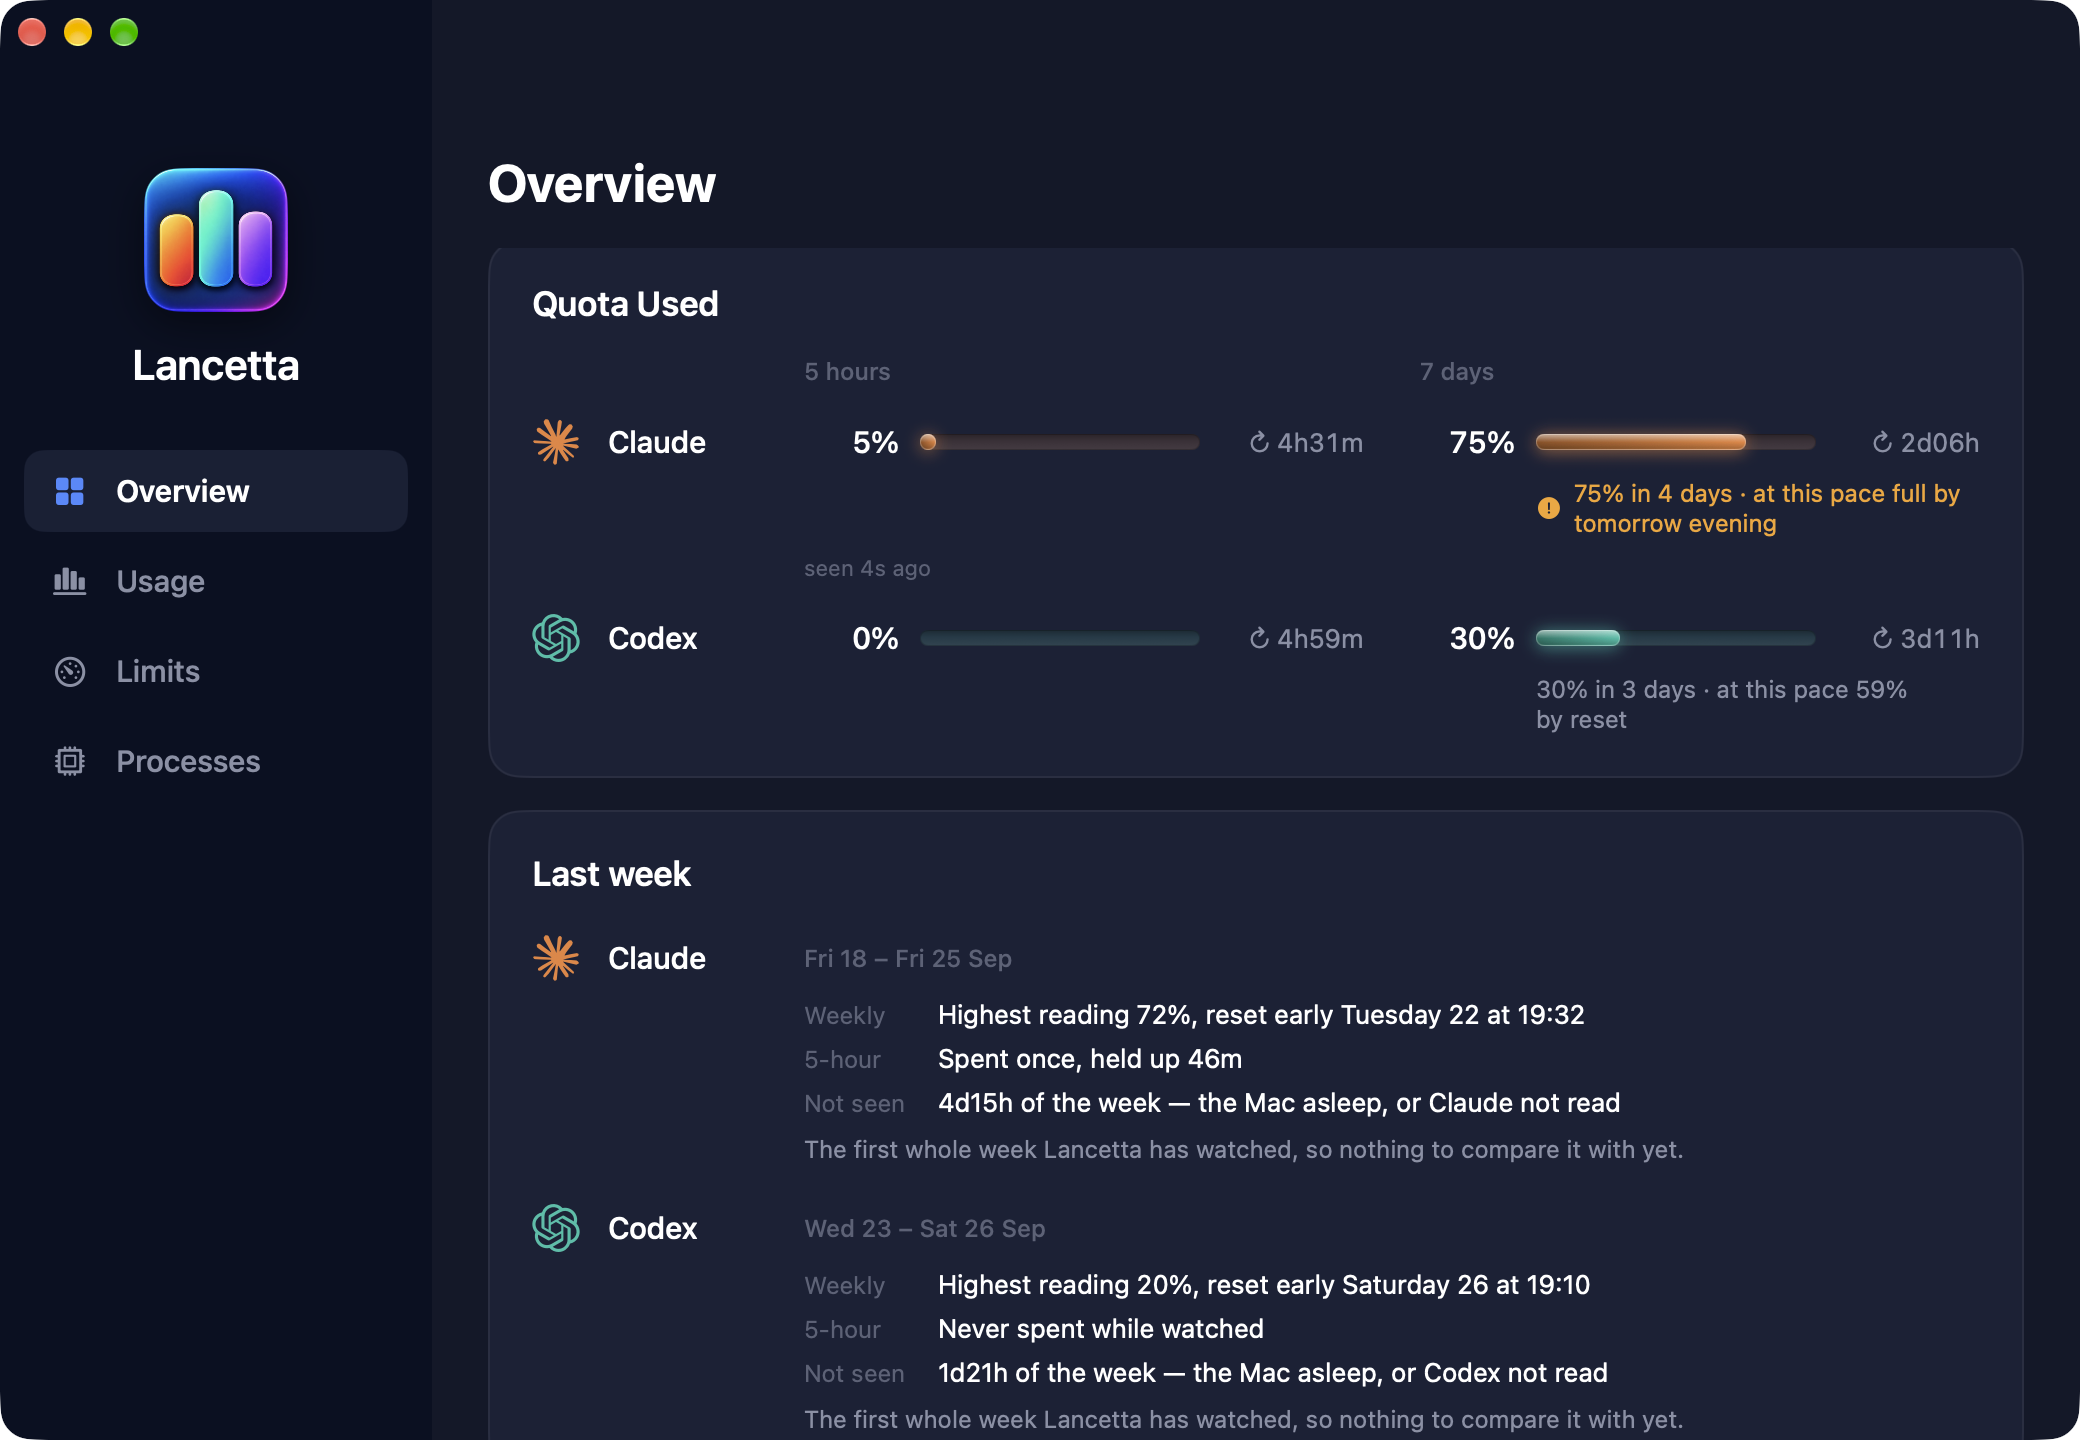
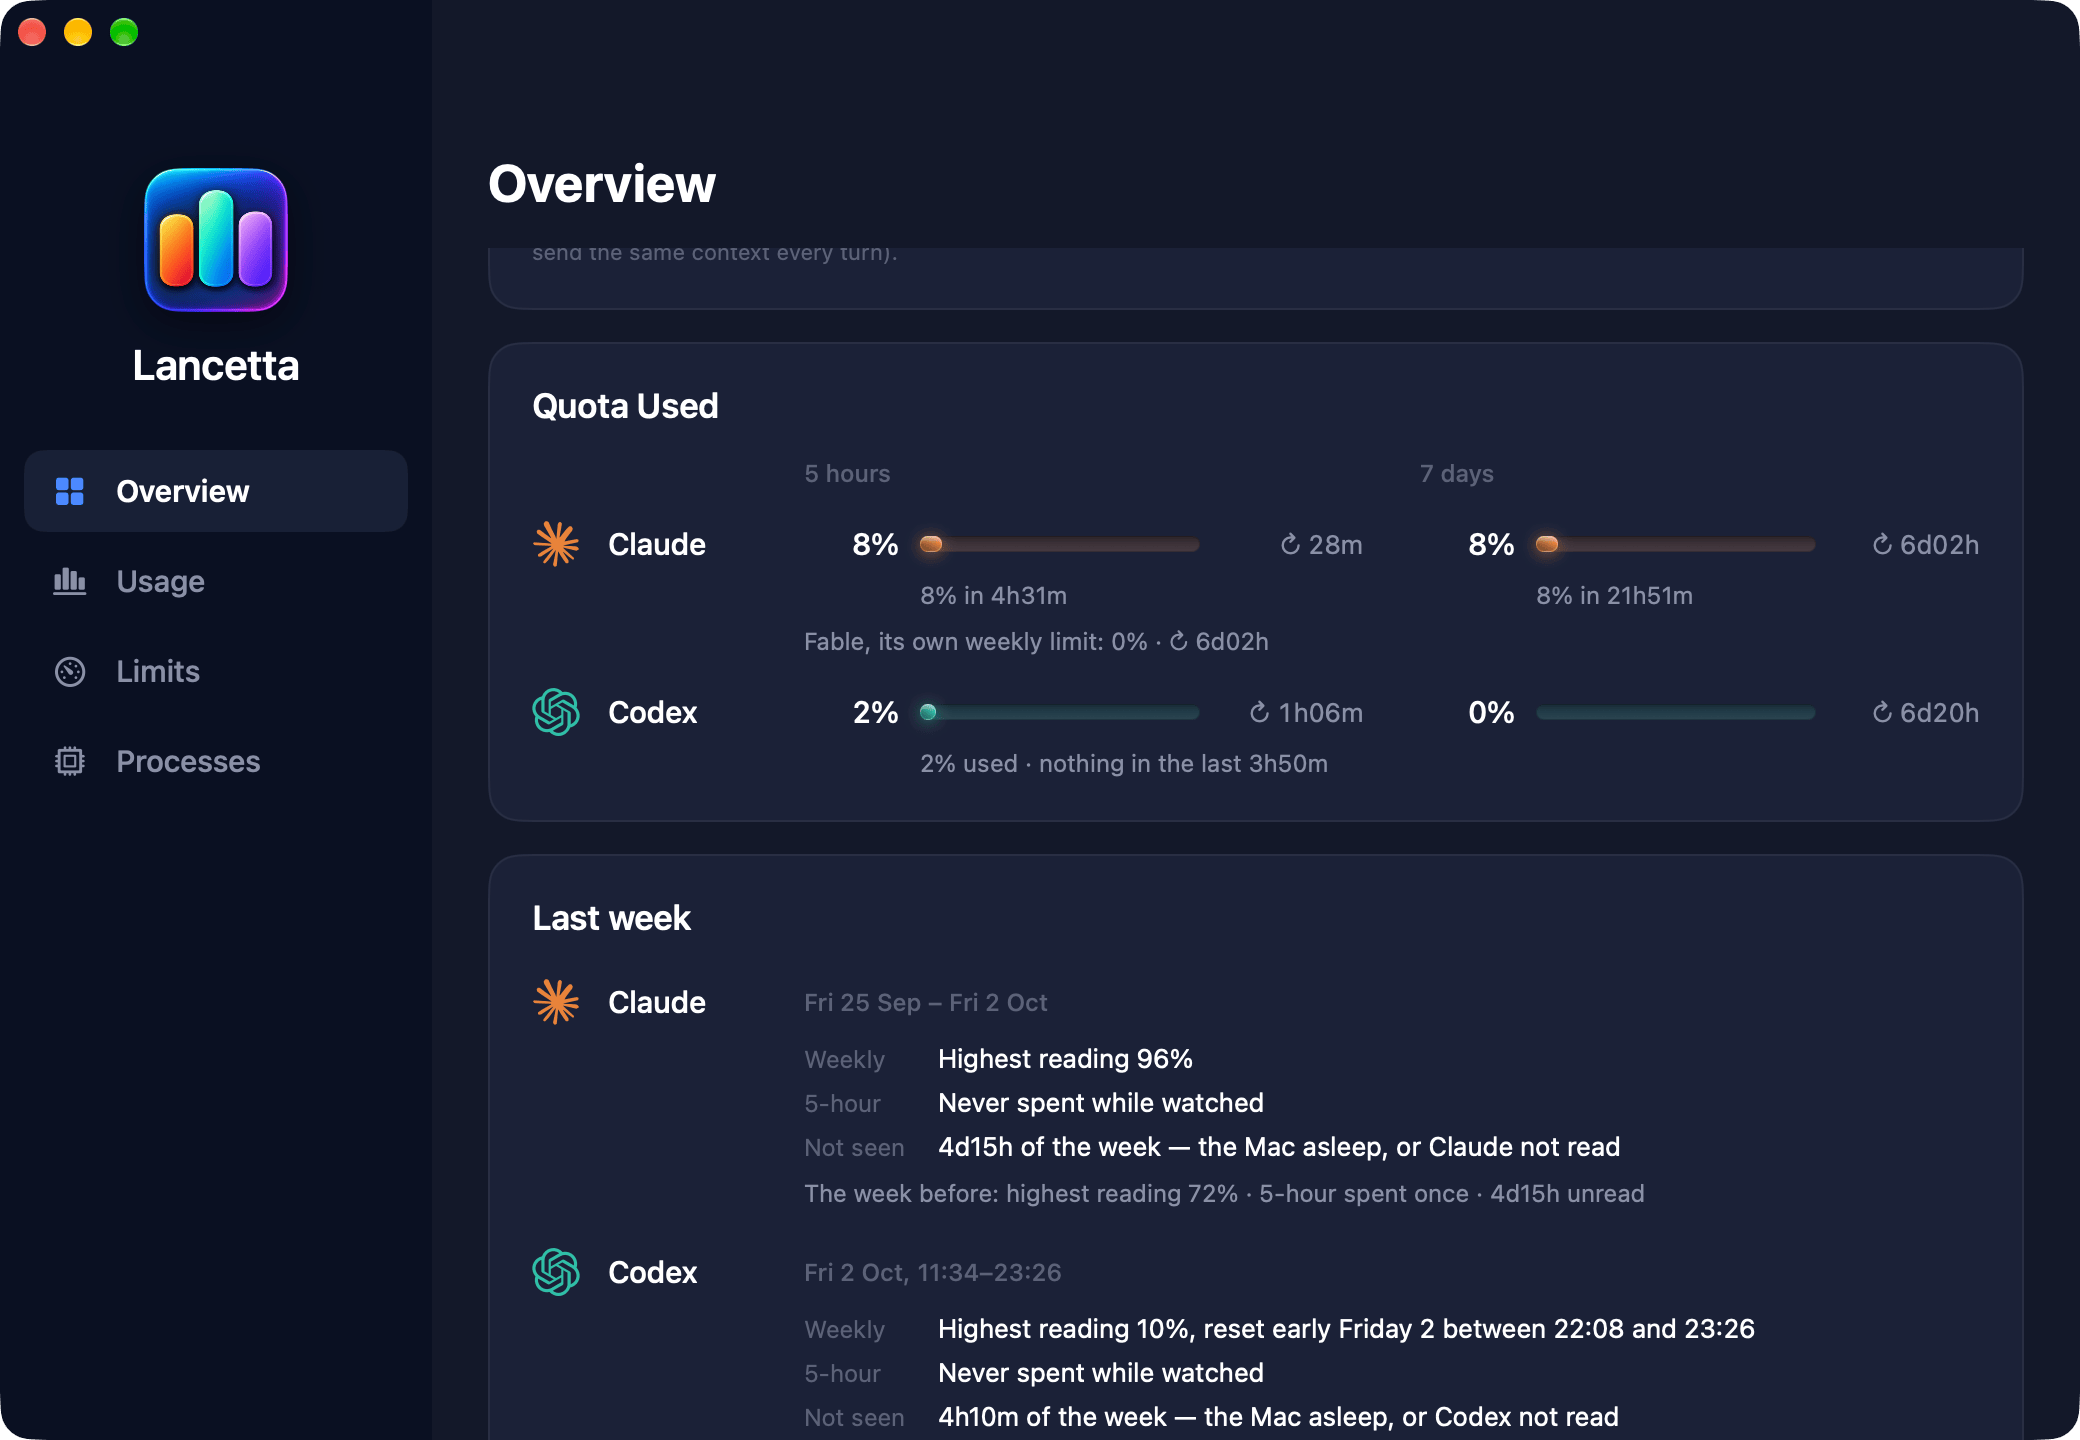
docs: re-shoot the panel and window set from 0.15.1
0.15.0 rewrote the pace line, and every frame that quoted it still said
"at this pace 29% by reset": the panel, the Claude card cut out of it for
the hero, and the window's Overview, Limits and Last week. The window set
is one set at one size, so all five panes were shot again in one run.

They come from the installed 0.15.1 on the account route, so Claude's card
shows its Fable row and no Connect offer. The alt texts describe what the
new frames show, and the header's reading and demo panel take the panel's
new numbers, which they mirror. CLAUDE.md records the run, including the
429 that a launch per pane brings on.

diff --git a/components/HeroStage/HeroStage.tsx b/components/HeroStage/HeroStage.tsx
@@ -92,7 +92,7 @@ const frames: Frame[] = [
     src: '/screenshot-pace.png',
     width: 716,
     height: 280,
-    alt: 'A Lancetta card for Claude: the five-hour window at 3% with the line “3% in 31m · at this pace 29% by reset” under it, the weekly window at 6% with “6% in 4 days · at this pace 9% by reset”, and its separate Fable limit at 0%',
+    alt: 'A Lancetta card for Claude: the five-hour window at 8% with the line “8% in 4h33m” under it, the weekly window at 8% with “8% in 21h53m”, and its separate Fable limit at 0%',
     eyebrow: 'What nothing else can say',
     title: 'The number you can already see is not the useful one.',
     body: 'The percentage is on your menu bar all day, so you already know when it is getting low. What you cannot see is how long you can keep going like this. Lancetta says it under the bar — “at this rate you run out in 2h00m”, in amber — whenever it would happen before the window resets.',
@@ -175,8 +175,8 @@ const frames: Frame[] = [
 const HERO_SHOT = {
   src: '/screenshot-menu-dark.png',
   width: 760,
-  height: 714,
-  alt: 'The Lancetta panel: how fresh the numbers are across the top, then Claude Code and Codex, each window with its bar and the time it resets. Claude’s lines say where each window ends at the current rate; Codex, spent for the week, shows the free reset it holds, with a Use… button',
+  height: 710,
+  alt: 'The Lancetta panel: how fresh the numbers are across the top, then Claude Code and Codex, each window with its bar and the time it resets. Under Claude’s bars, how much each window has used and over how long, then its separate Fable limit; under Codex’s, that nothing has been used in the last few hours, and the free reset it holds, with a Use… button',
 };
 
 export function HeroStage({ cadence = fallbackReleaseCadence() }: { cadence?: Cadence }) {

diff --git a/components/MenuBarHeader/panel-demo.ts b/components/MenuBarHeader/panel-demo.ts
@@ -100,7 +100,7 @@ export function refreshLabel(ageSeconds: number, refreshing = false) {
 
 /** The panel in the hero's menu screenshot, row for row. */
 export const panelDemo: PanelState = {
-  updatedAgo: 16,
+  updatedAgo: 42,
   agents: [
     {
       agent: 'claude',
@@ -109,17 +109,17 @@ export const panelDemo: PanelState = {
       rows: [
         {
           label: '5h',
-          percent: 10,
-          reset: '47m',
-          pace: { text: '10% in 4h12m' },
+          percent: 8,
+          reset: '25m',
+          pace: { text: '8% in 4h33m' },
         },
         {
           label: '7d',
-          percent: 3,
-          reset: '2d03h',
-          pace: { text: '3% in 4d' },
+          percent: 8,
+          reset: '6d02h',
+          pace: { text: '8% in 21h53m' },
         },
-        { label: 'Fable', percent: 0, reset: '2d03h' },
+        { label: 'Fable', percent: 0, reset: '6d02h' },
       ],
     },
     {
@@ -127,13 +127,17 @@ export const panelDemo: PanelState = {
       name: 'Codex',
       plan: 'plus',
       rows: [
-        { label: '5h', percent: 0, reset: '4h59m' },
-        { label: '7d', percent: 100, reset: '5h44m' },
+        {
+          label: '5h',
+          percent: 2,
+          reset: '1h04m',
+          pace: { text: '2% used · nothing in the last 3h53m' },
+        },
+        { label: '7d', percent: 0, reset: '6d20h' },
       ],
-      exhausted: 'codex exhausted',
       credit: {
-        label: '1 free reset · until 22 Oct',
-        detail: 'Full reset (Weekly + 5 hr) · granted 22 September · valid until 22 October',
+        label: '1 free reset · until 29 Oct',
+        detail: 'Full reset (Weekly + 5 hr) · granted 29 September · valid until 29 October',
         resettable: true,
       },
     },

diff --git a/components/MenuBarHeader/reading.ts b/components/MenuBarHeader/reading.ts
@@ -63,6 +63,6 @@ export function ledBand(percent: number): LedBand {
  * figure the prose states comes from the measurement table in CLAUDE.md instead.
  */
 export const barReading: AgentReading[] = [
-  { agent: 'claude', percent: 10, resets: '47m' },
-  { agent: 'codex', percent: 0, resets: '4h59m' },
+  { agent: 'claude', percent: 8, resets: '25m' },
+  { agent: 'codex', percent: 2, resets: '1h04m' },
 ];

diff --git a/CLAUDE.md b/CLAUDE.md
@@ -415,6 +415,39 @@ The earlier set had 15's. Two things the re-shoot turned up:
   draws exactly what 0.13.0 does. 0.13.1 (2026-09-30) carries #85, so shoot
   Processes from 0.13.1 or later, never from a 0.13.0 build.
 
+**Re-shot on 2026-10-03 from the INSTALLED 0.15.1, on the account route**, when
+0.15.0 changed the pace line and every frame quoting it went stale: the panel, the
+Claude card cut out of it (`screenshot-pace.png`), and the whole window set. The
+dev bundle's status-line route (the command above) draws Connect Claude Code… and
+no Fable row on Claude's card, so the panel and the window came from
+`/Applications/Lancetta.app`, launched with `-AppleLanguages "(en_GB)"` and quit
+and relaunched plain afterwards. Three things that run paid for:
+- **One launch per pane reads Claude's account once per launch, and it answers
+  429.** Six launches in two minutes left every frame saying *Claude's account
+  asked for a pause*, and the Limits pane then draws no Claude card at all. So the
+  window set is ONE launch (`LANCETTA_OVERVIEW=overview`, `LANCETTA_DEMO_TREES=1`,
+  `LANCETTA_CAPTURE=1`), waited on until the real `usage.json` shows a Claude
+  reading newer than the launch, with the panes switched by clicking the sidebar
+  rows by coordinate (window origin + (100, 236 / 279 / 322 / 366) points: the rows
+  have no accessibility titles) after checking the app is frontmost, and the
+  pointer put back. Quit the user's copy first: two copies polling one account
+  is what brings the 429 on.
+- **The panel is a second launch, without `LANCETTA_DEMO_TREES`**: with it, the
+  panel draws the invented trees' strip. Its first click on the status item may
+  not open the panel, and one opened straight after can photograph as empty navy
+  (the cards still in their hidden pose): open it again, wait four seconds, check
+  the picture.
+- **The pace crop is the panel's Claude card**, 716x280 from (22, 72) in the 2x
+  capture, with the outside of its 24px rounded corners cleared to transparent,
+  as the published one was. With real numbers the pace line is calm; the amber
+  stop cannot be summoned from a real account, only from the demo agents, which
+  are not publishable.
+
+The frames went through ImageOptim.app (the workspace's always-on rule), which
+writes a 256-colour palette here: the seven frames take 404 KB, against 2.14 MB
+as captured and 1.29 MB for the oxipng set they replaced, and nothing shows at full
+size.
+
 **A capture with a BAKED SHADOW is a smudge on a light page, and the site is
 light.** The app's captures are taken against a dark desktop, where a soft
 shadow around the object is what makes it sit on something. Measured on the
